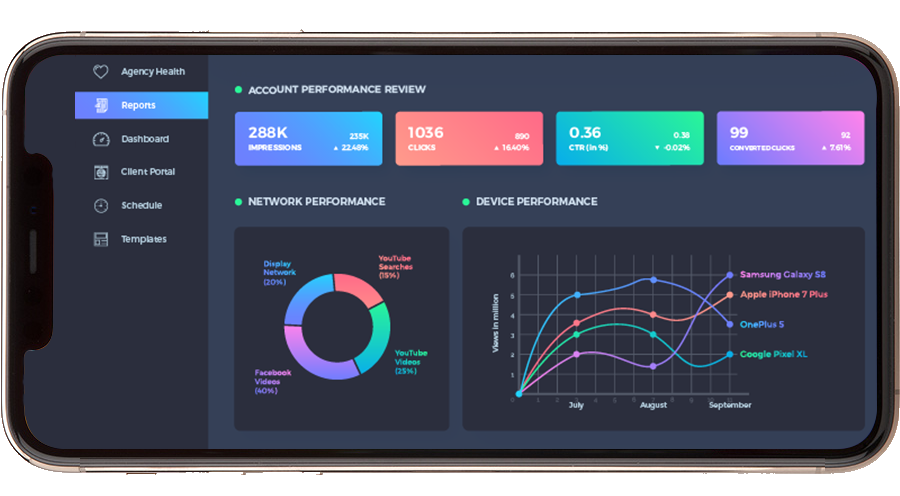
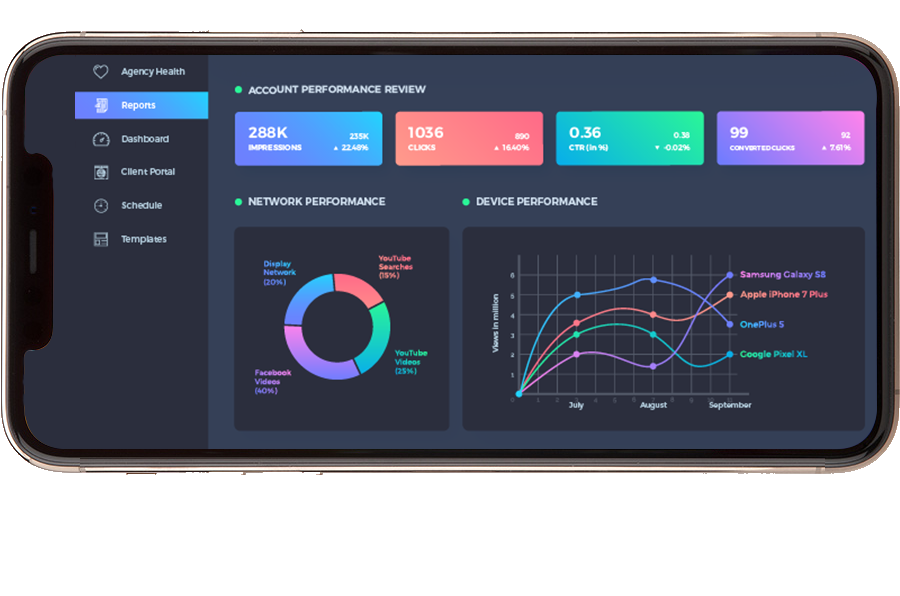
imhotep

diff --git a/index.html b/index.html
@@ -159,7 +159,7 @@
           </div>
         </div>
         <div class="row mt-6">
-          <div class="col"><img src="assets/img/iphone.png" alt="featured-image" style="transform: translateY(-200px);" data-inertia="{&quot;weight&quot;:0.9}"></div>
+          <div class="col text-center"><img src="assets/img/iphone.png" alt="featured-image" style="transform: translateY(-200px);" data-inertia="{&quot;weight&quot;:0.9}"></div>
         </div>
         <!--/.row-->
       </div>
